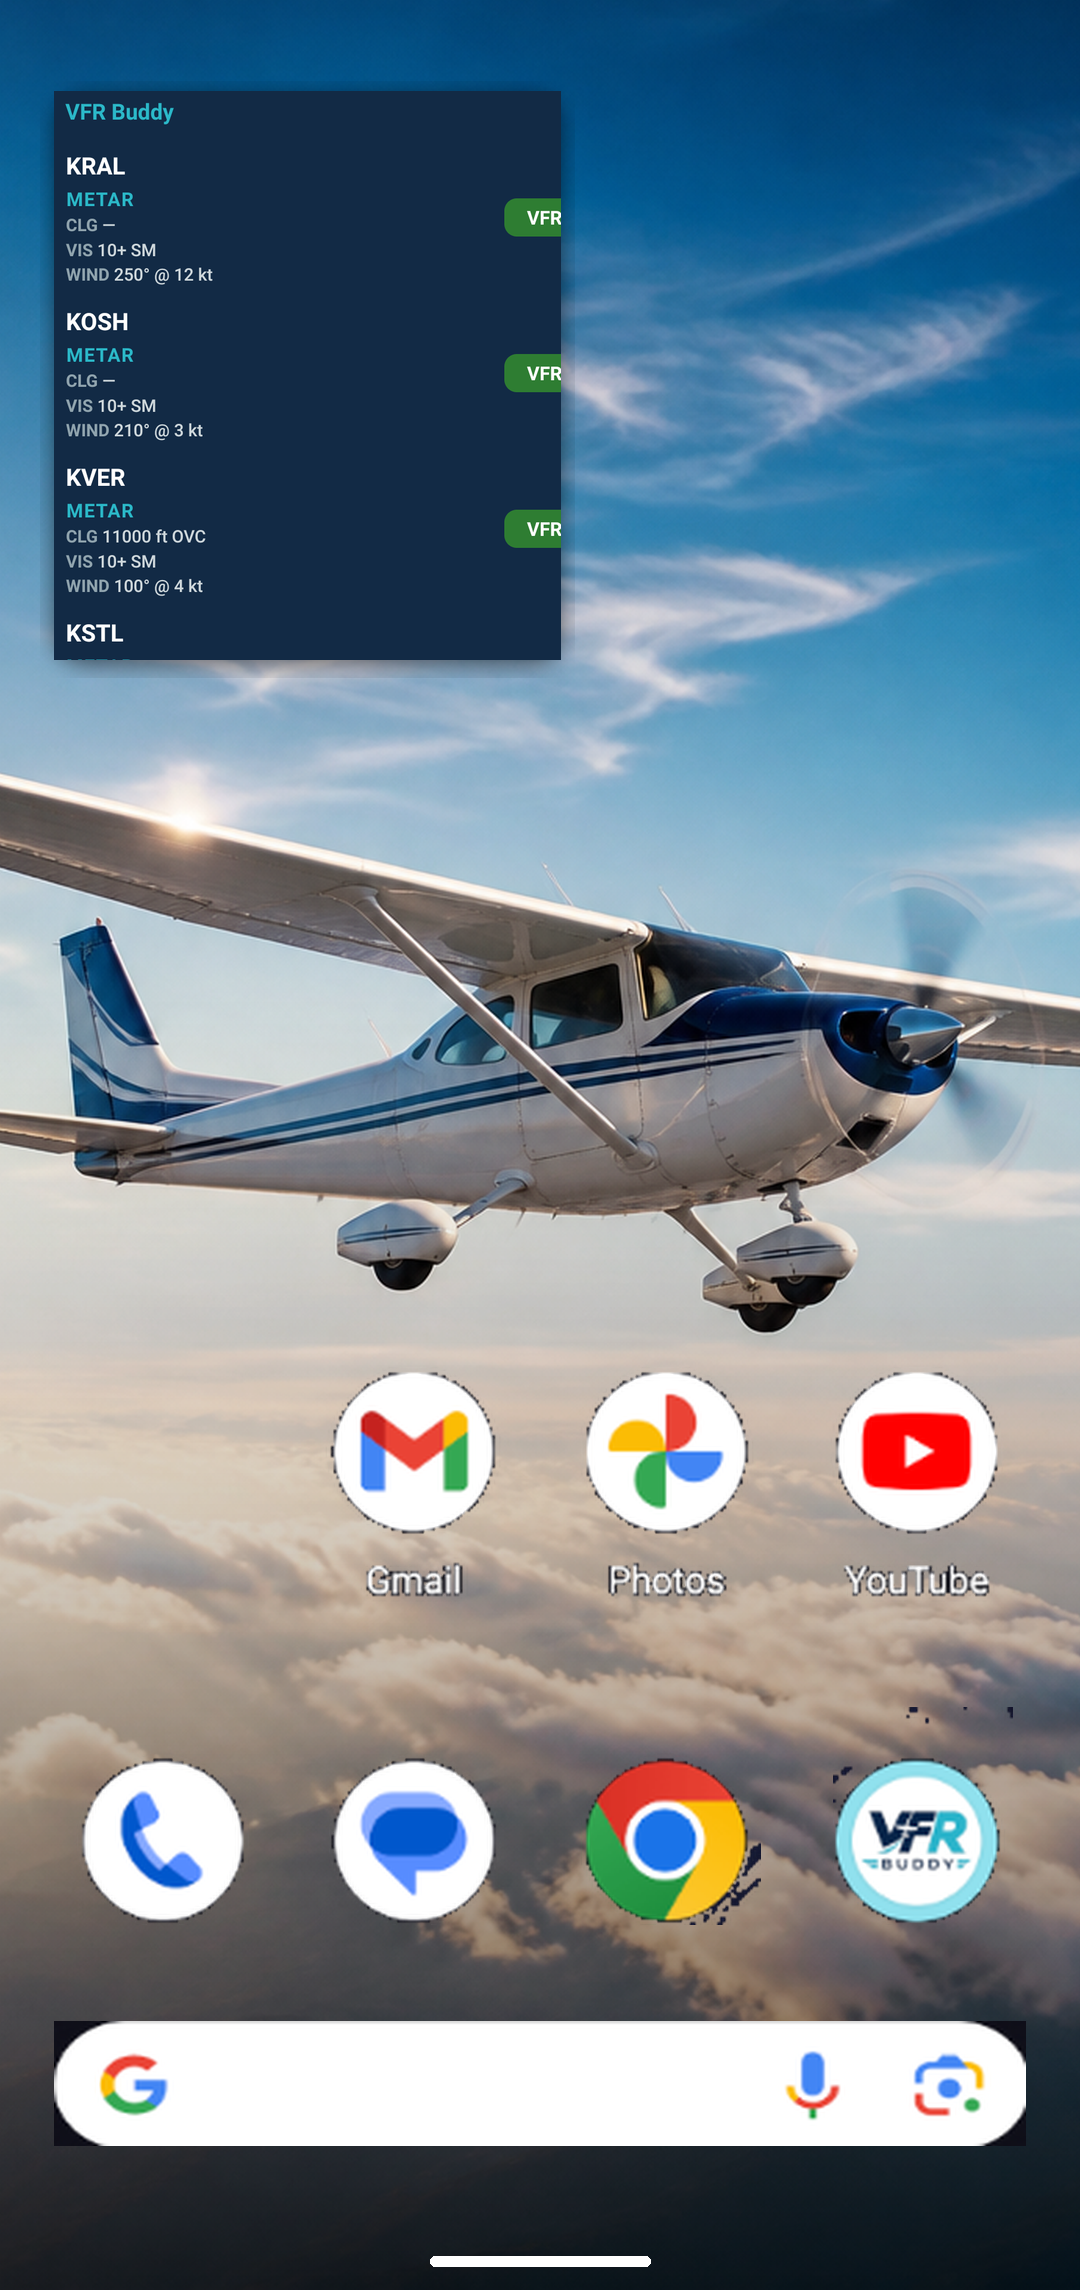
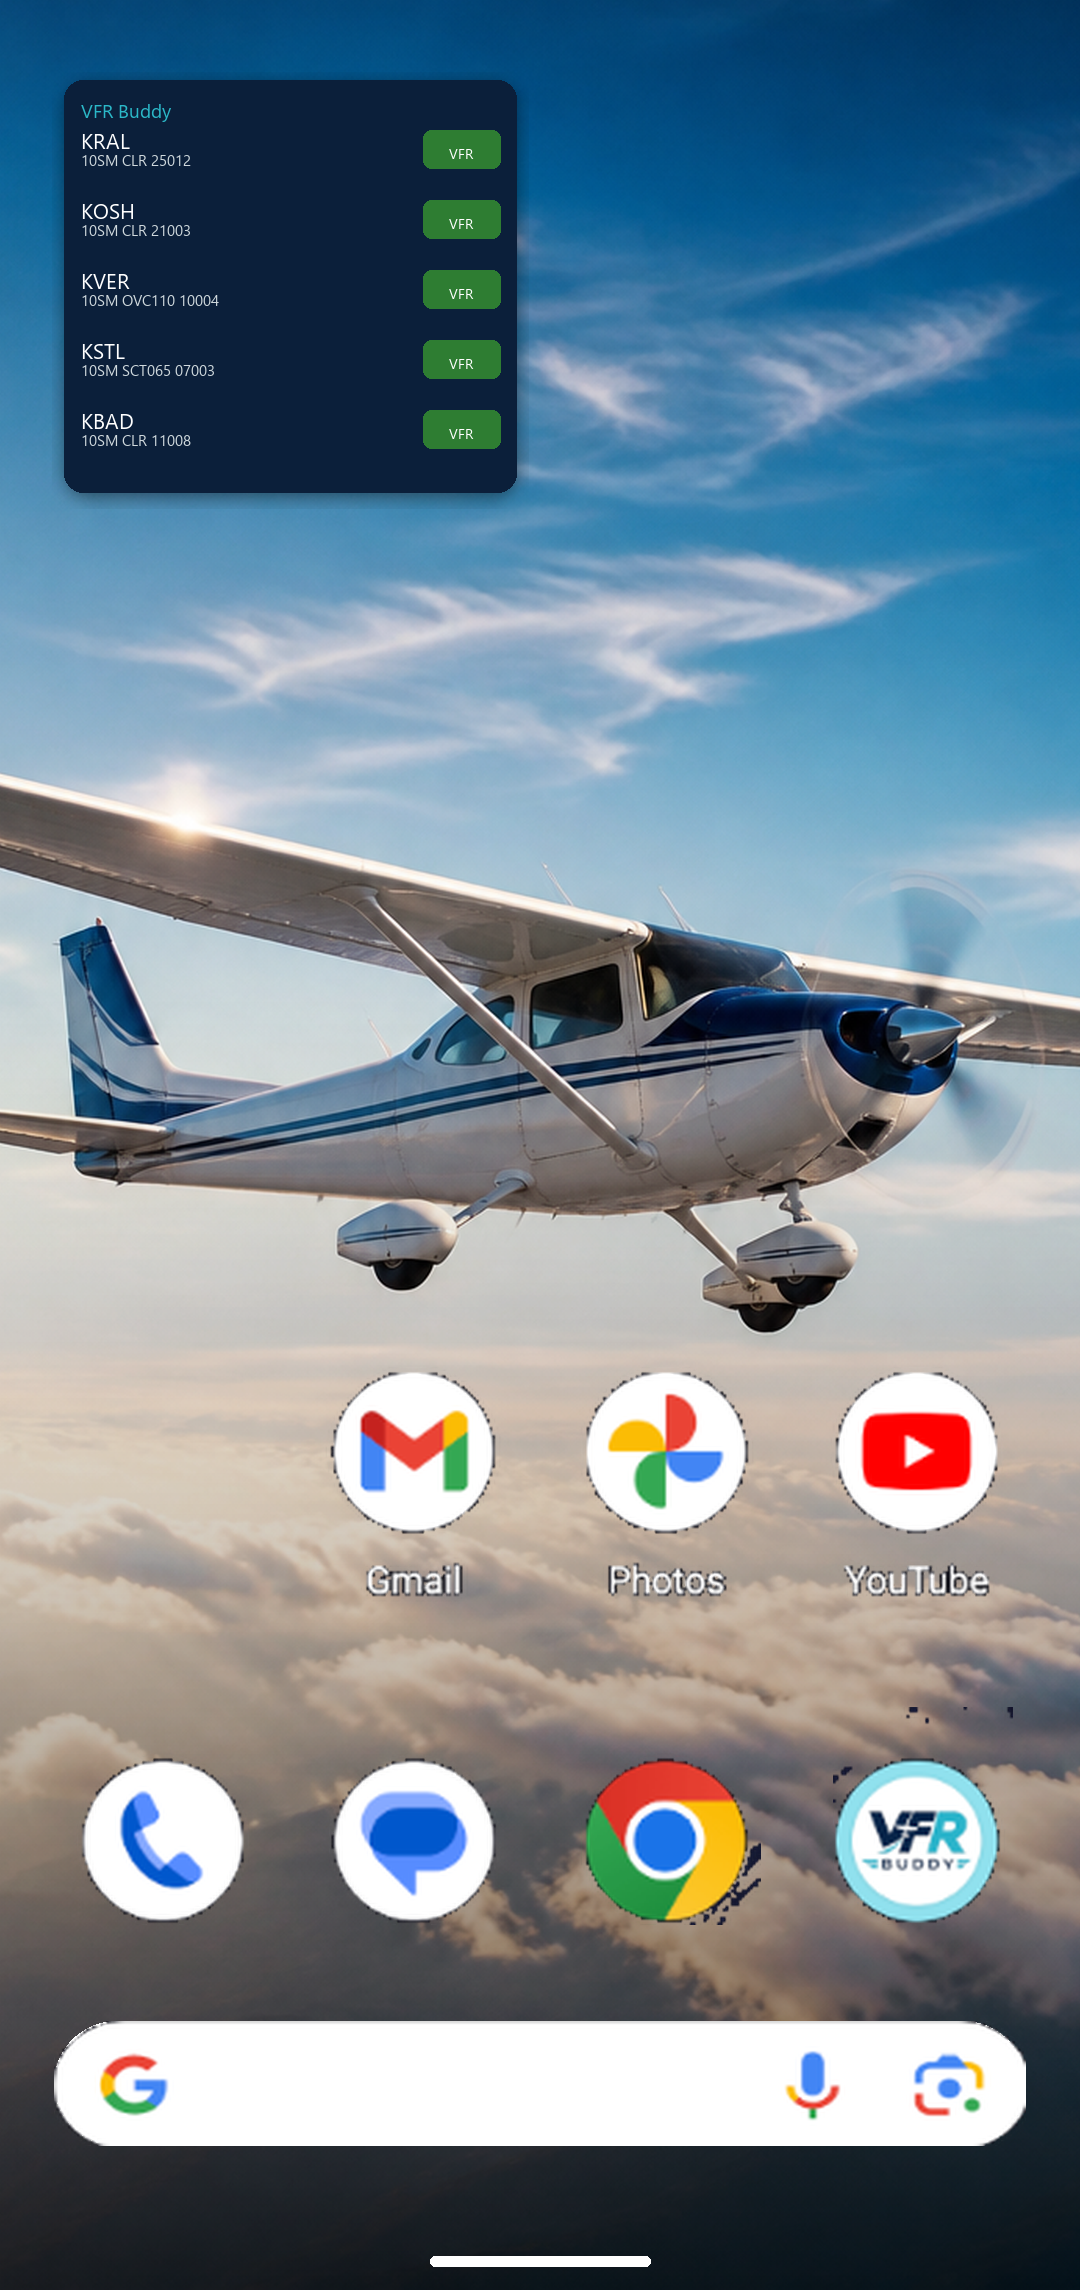
Fix search bar corners and render compact home-screen widget.

diff --git a/scripts/compose_widget_homescreen.py b/scripts/compose_widget_homescreen.py
@@ -4,7 +4,7 @@ from __future__ import annotations
 
 from pathlib import Path
 
-from PIL import Image, ImageDraw, ImageFilter
+from PIL import Image, ImageDraw, ImageFilter, ImageFont
 
 ROOT = Path(__file__).resolve().parents[1]
 ASSETS = ROOT / "assets"
@@ -17,23 +17,33 @@ EMULATOR = Path(
 )
 EMU_W, EMU_H = 394, 895
 
-# Full icon crops from emulator — never split or trim
+NAVY = (11, 31, 58)
+CYAN = (43, 184, 200)
+TEXT = (255, 255, 255)
+SOFT = (207, 216, 220)
+VFR_GREEN = (46, 125, 50)
+
 MIDDLE_ICONS = [
-    (118, 530, 184, 648),   # Gmail + label
-    (210, 530, 276, 648),   # Photos + label
-    (302, 530, 368, 648),   # YouTube + label
+    (118, 530, 184, 648),
+    (210, 530, 276, 648),
+    (302, 530, 368, 648),
 ]
 DOCK_ICONS = [
-    (28, 678, 94, 758),     # Phone
-    (120, 678, 186, 758),   # Messages
-    (212, 678, 278, 758),   # Chrome
-    (304, 678, 370, 758),   # VFR Buddy
+    (28, 678, 94, 758),
+    (120, 678, 186, 758),
+    (212, 678, 278, 758),
+    (304, 678, 370, 758),
 ]
-SEARCH_BAR = (16, 784, 378, 858)
-# White pill only — excludes black wallpaper margins in the search crop
 SEARCH_PILL = (30, 790, 363, 839)
-# Raise icon rows above the search bar (emu pixels)
 ICON_LIFT_EMU = 55
+
+WIDGET_ROWS = [
+    ("KRAL", "10SM CLR 25012"),
+    ("KOSH", "10SM CLR 21003"),
+    ("KVER", "10SM OVC110 10004"),
+    ("KSTL", "10SM SCT065 07003"),
+    ("KBAD", "10SM CLR 11008"),
+]
 
 
 def cover_resize(img: Image.Image, width: int, height: int) -> Image.Image:
@@ -43,6 +53,21 @@ def cover_resize(img: Image.Image, width: int, height: int) -> Image.Image:
     left = (resized.width - width) // 2
     top = (resized.height - height) // 2
     return resized.crop((left, top, left + width, top + height))
+
+
+def load_font(size: int, *, bold: bool = False) -> ImageFont.FreeTypeFont | ImageFont.ImageFont:
+    candidates = [
+        "C:/Windows/Fonts/segoeui.ttf",
+        "C:/Windows/Fonts/segoeuib.ttf" if bold else "C:/Windows/Fonts/segoeui.ttf",
+        "C:/Windows/Fonts/arial.ttf",
+        "C:/Windows/Fonts/arialbd.ttf" if bold else "C:/Windows/Fonts/arial.ttf",
+    ]
+    for path in candidates:
+        try:
+            return ImageFont.truetype(path, size=size)
+        except OSError:
+            continue
+    return ImageFont.load_default()
 
 
 def key_dark(img: Image.Image, threshold: int = 42) -> Image.Image:
@@ -66,6 +91,56 @@ def emu_center(box: tuple[int, int, int, int]) -> tuple[int, int]:
     return ((x1 + x2) / 2, (y1 + y2) / 2)
 
 
+def render_home_widget(width: int) -> Image.Image:
+    """Render the compact Android home-screen widget (matches FavoritesWidget)."""
+    pad = max(14, int(width * 0.038))
+    row_h = max(54, int(width * 0.155))
+    title_size = max(16, int(width * 0.042))
+    icao_size = max(18, int(width * 0.048))
+    summary_size = max(13, int(width * 0.034))
+    badge_size = max(12, int(width * 0.032))
+    radius = max(14, int(width * 0.042))
+
+    title_font = load_font(title_size, bold=True)
+    icao_font = load_font(icao_size, bold=True)
+    summary_font = load_font(summary_size)
+    badge_font = load_font(badge_size, bold=True)
+
+    height = pad * 2 + title_size + 10 + len(WIDGET_ROWS) * row_h
+    widget = Image.new("RGBA", (width, height), (0, 0, 0, 0))
+    draw = ImageDraw.Draw(widget)
+    draw.rounded_rectangle((0, 0, width - 1, height - 1), radius=radius, fill=NAVY + (255,))
+
+    draw.text((pad, pad), "VFR Buddy", fill=CYAN, font=title_font)
+
+    y = pad + title_size + 10
+    for icao, summary in WIDGET_ROWS:
+        draw.text((pad, y), icao, fill=TEXT, font=icao_font)
+        draw.text((pad, y + icao_size + 2), summary, fill=SOFT, font=summary_font)
+
+        badge_text = "VFR"
+        badge_w = int(width * 0.17)
+        badge_h = int(width * 0.085)
+        bx = width - pad - badge_w
+        by = y + 4
+        draw.rounded_rectangle(
+            (bx, by, bx + badge_w, by + badge_h),
+            radius=8,
+            fill=VFR_GREEN + (255,),
+        )
+        bbox = draw.textbbox((0, 0), badge_text, font=badge_font)
+        tw, th = bbox[2] - bbox[0], bbox[3] - bbox[1]
+        draw.text(
+            (bx + (badge_w - tw) // 2, by + (badge_h - th) // 2 - 1),
+            badge_text,
+            fill=TEXT,
+            font=badge_font,
+        )
+        y += row_h
+
+    return widget
+
+
 def paste_full_icon(
     canvas: Image.Image,
     source: Image.Image,
@@ -75,7 +150,6 @@ def paste_full_icon(
     top_y_emu: float,
     target_width: int,
 ) -> None:
-    """Paste the full emulator crop scaled uniformly; same icon width for every app."""
     piece = key_dark(source.crop(crop))
     src_w = crop[2] - crop[0]
     src_h = crop[3] - crop[1]
@@ -90,10 +164,26 @@ def paste_full_icon(
     canvas.alpha_composite(piece, (cx - new_w // 2, top))
 
 
+def paste_search_bar(canvas: Image.Image, emulator: Image.Image) -> None:
+    sy = (H - STATUS_CROP) / EMU_H
+    dest_w = int(W * 0.9)
+    dest_h = max(56, int((SEARCH_PILL[3] - SEARCH_PILL[1]) * sy))
+    dest_x = (W - dest_w) // 2
+    dest_y = int(SEARCH_PILL[1] * sy) + STATUS_CROP
+
+    pill = Image.new("RGBA", (dest_w, dest_h), (0, 0, 0, 0))
+    draw = ImageDraw.Draw(pill)
+    draw.rounded_rectangle((0, 0, dest_w - 1, dest_h - 1), radius=dest_h // 2, fill=(255, 255, 255, 255))
+    canvas.alpha_composite(pill, (dest_x, dest_y))
+
+    content = key_dark(emulator.crop(SEARCH_PILL), threshold=55)
+    content = content.resize((dest_w, dest_h), Image.Resampling.LANCZOS)
+    canvas.alpha_composite(content, (dest_x, dest_y))
+
+
 def main() -> None:
     wallpaper = Image.open(WALLPAPER).convert("RGB")
     emulator = Image.open(EMULATOR).convert("RGBA")
-    widget = Image.open(ASSETS / "screenshot-widget-card.png").convert("RGBA")
 
     base = cover_resize(wallpaper, W, H).convert("RGBA")
 
@@ -105,38 +195,27 @@ def main() -> None:
     base = Image.alpha_composite(base, scrim)
     canvas = base.copy()
 
-    widget_w = int(W * 0.47)
-    widget_h = int(widget.size[1] * (widget_w / widget.size[0]))
-    widget_resized = widget.resize((widget_w, widget_h), Image.Resampling.LANCZOS)
-    wx, wy = int(W * 0.05), STATUS_CROP + int((H - STATUS_CROP) * 0.04)
-    shadow = Image.new("RGBA", (widget_w + 28, widget_h + 28), (0, 0, 0, 0))
+    widget_w = int(W * 0.42)
+    widget = render_home_widget(widget_w)
+    wx, wy = int(W * 0.06), STATUS_CROP + int((H - STATUS_CROP) * 0.035)
+    shadow = Image.new("RGBA", (widget_w + 24, widget.height + 24), (0, 0, 0, 0))
     sd = ImageDraw.Draw(shadow)
-    sd.rounded_rectangle((14, 14, widget_w + 14, widget_h + 14), radius=30, fill=(0, 0, 0, 130))
-    shadow = shadow.filter(ImageFilter.GaussianBlur(10))
-    canvas.alpha_composite(shadow, (wx - 14, wy - 10))
-    canvas.alpha_composite(widget_resized, (wx, wy))
+    sd.rounded_rectangle((12, 12, widget_w + 12, widget.height + 12), radius=24, fill=(0, 0, 0, 110))
+    shadow = shadow.filter(ImageFilter.GaussianBlur(8))
+    canvas.alpha_composite(shadow, (wx - 12, wy - 8))
+    canvas.alpha_composite(widget, (wx, wy))
 
     icon_w = int(66 * emu_scale())
-
-    # Layout mirrors the emulator reference, lifted above the search bar
     middle_y = 530 - ICON_LIFT_EMU
     dock_y = 678 - ICON_LIFT_EMU
     for crop in MIDDLE_ICONS:
         cx, _ = emu_center(crop)
         paste_full_icon(canvas, emulator, crop, center_x_emu=cx, top_y_emu=middle_y, target_width=icon_w)
-
     for crop in DOCK_ICONS:
         cx, _ = emu_center(crop)
         paste_full_icon(canvas, emulator, crop, center_x_emu=cx, top_y_emu=dock_y, target_width=icon_w)
 
-    # Search bar — white pill only, scaled to full width (no black margins)
-    sy = (H - STATUS_CROP) / EMU_H
-    pill_h = int((SEARCH_PILL[3] - SEARCH_PILL[1]) * sy)
-    dest_w = int(W * 0.9)
-    dest_x = (W - dest_w) // 2
-    dest_y = int(SEARCH_PILL[1] * sy) + STATUS_CROP
-    search = emulator.crop(SEARCH_PILL).resize((dest_w, pill_h), Image.Resampling.LANCZOS)
-    canvas.alpha_composite(search.convert("RGBA"), (dest_x, dest_y))
+    paste_search_bar(canvas, emulator)
 
     nav = ImageDraw.Draw(canvas)
     pill_w, pill_h = 220, 10
@@ -149,6 +228,7 @@ def main() -> None:
     out = canvas.convert("RGB").crop((0, STATUS_CROP, W, H))
     out.save(ASSETS / "screenshot-widget-homescreen.png", optimize=True, quality=92)
     out.save(ASSETS / "screenshot-widget.png", optimize=True, quality=92)
+    widget.save(ASSETS / "screenshot-widget-card.png", optimize=True, quality=92)
     print(f"Saved screenshot-widget-homescreen.png {out.size}")
 
 
